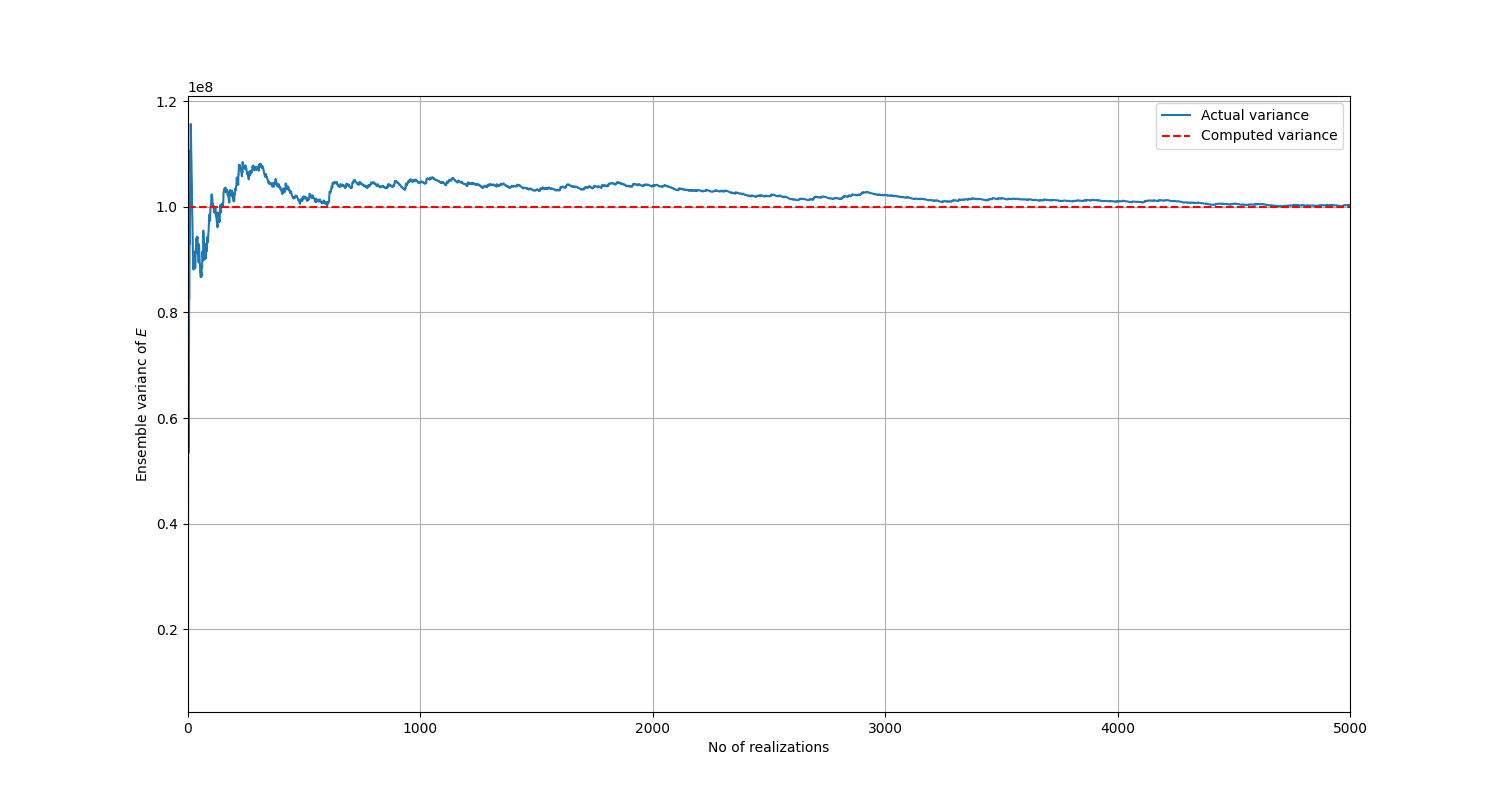
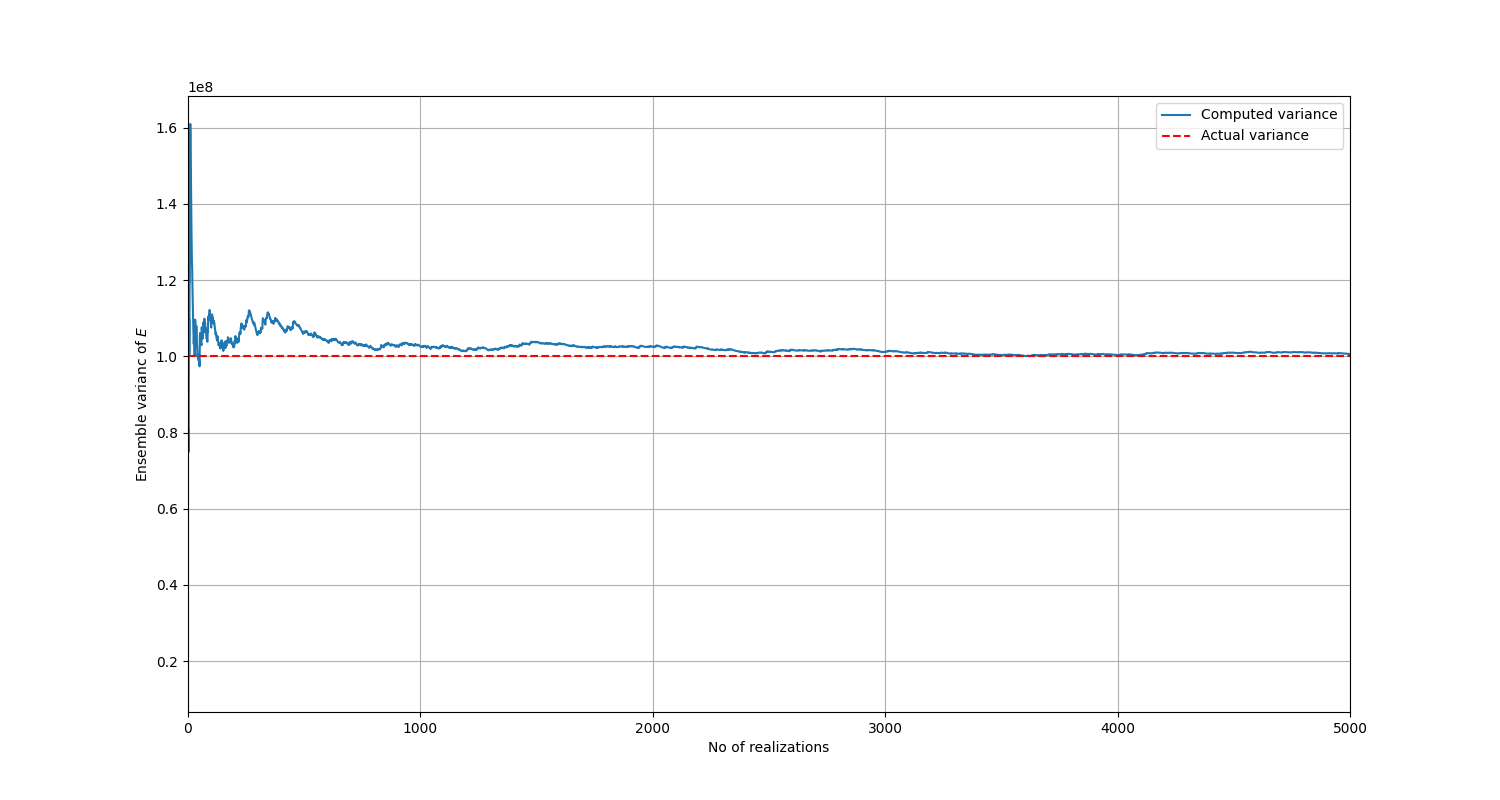
fix: implemented changes

diff --git a/doc/source/examples/extended_examples/sfem/sfem.py b/doc/source/examples/extended_examples/sfem/sfem.py
@@ -399,8 +399,8 @@ plt.show()
 # Plot of ensemble variance
 fig, ax = plt.subplots()
 fig.set_size_inches(15, 8)
-ax.plot(ensemble_var_with_realization, label="Actual variance")
-ax.axhline(y=1e8, color="r", linestyle="dashed", label="Computed variance")
+ax.plot(ensemble_var_with_realization, label="Computed variance")
+ax.axhline(y=1e8, color="r", linestyle="dashed", label="Actual variance")
 plt.xlabel("No of realizations")
 plt.ylabel(r"Ensemble varianc of $E$")
 ax.grid(True)

diff --git a/doc/source/examples/extended_examples/sfem/stochastic_fem.rst b/doc/source/examples/extended_examples/sfem/stochastic_fem.rst
@@ -204,7 +204,7 @@ distribution and for each of these samples solving the deterministic problem:
 
 .. math:: \pmb{K}(\pmb{\xi}_{(i)})\pmb{U}(\pmb{\xi}_{(i)}) = \pmb{F}(\pmb{\xi}_{(i)})
 
-The next step is to collect the :math:`N_{sim}` response vectors :math:`\pmb{U} := \pmb{U}(\pmb{\xi}_{(i)})` and perform a statistical
+The next step is to collect the :math:`N_{sim}` response vectors :math:`\pmb{U_i} := \pmb{U}(\pmb{\xi}_{(i)})` and perform a statistical
 postprocessing to extract useful information such as mean value, variance, histogram, and
 empirical PDF.
 
@@ -217,7 +217,7 @@ The following plane stress problem shows a two-dimensional cantilever structure 
 
    A two-dimensional cantilever structure under a point load.
 
-:math:`P` is a random variable following the Gaussian distribution :math:`\mathcal{N}(0,1)` (kN), and the modulus of elasticity is a
+:math:`P` is a random variable following the Gaussian distribution :math:`\mathcal{N}(10,2)` (kN), and the modulus of elasticity is a
 random field given by this expression:
 
 .. math:: E(x) = 10^5(1+0.10f(x)) (kN/m^2)
@@ -364,7 +364,7 @@ This function implements the preceding steps:
 
 .. literalinclude:: sfem.py
   :language: python
-  :lines: 444-556
+  :lines: 414-556
 
 You can pass the required arguments to the defined function to run the simulations:
 
